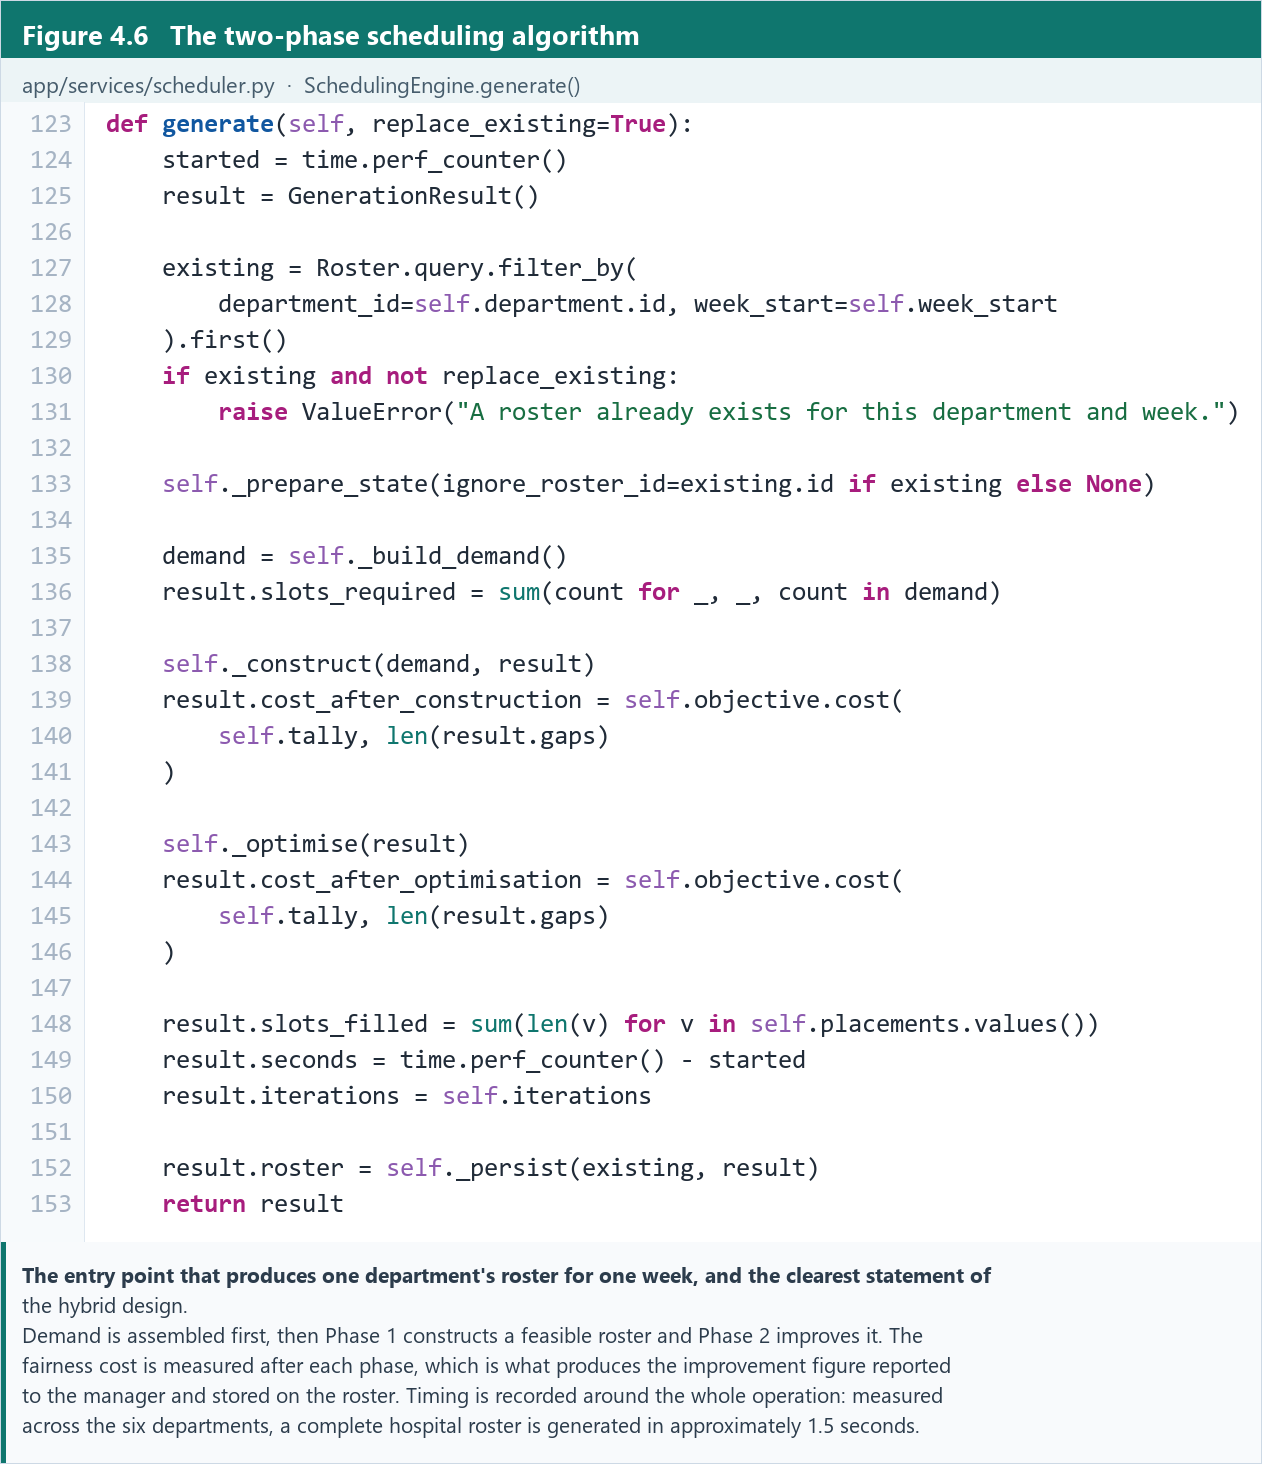
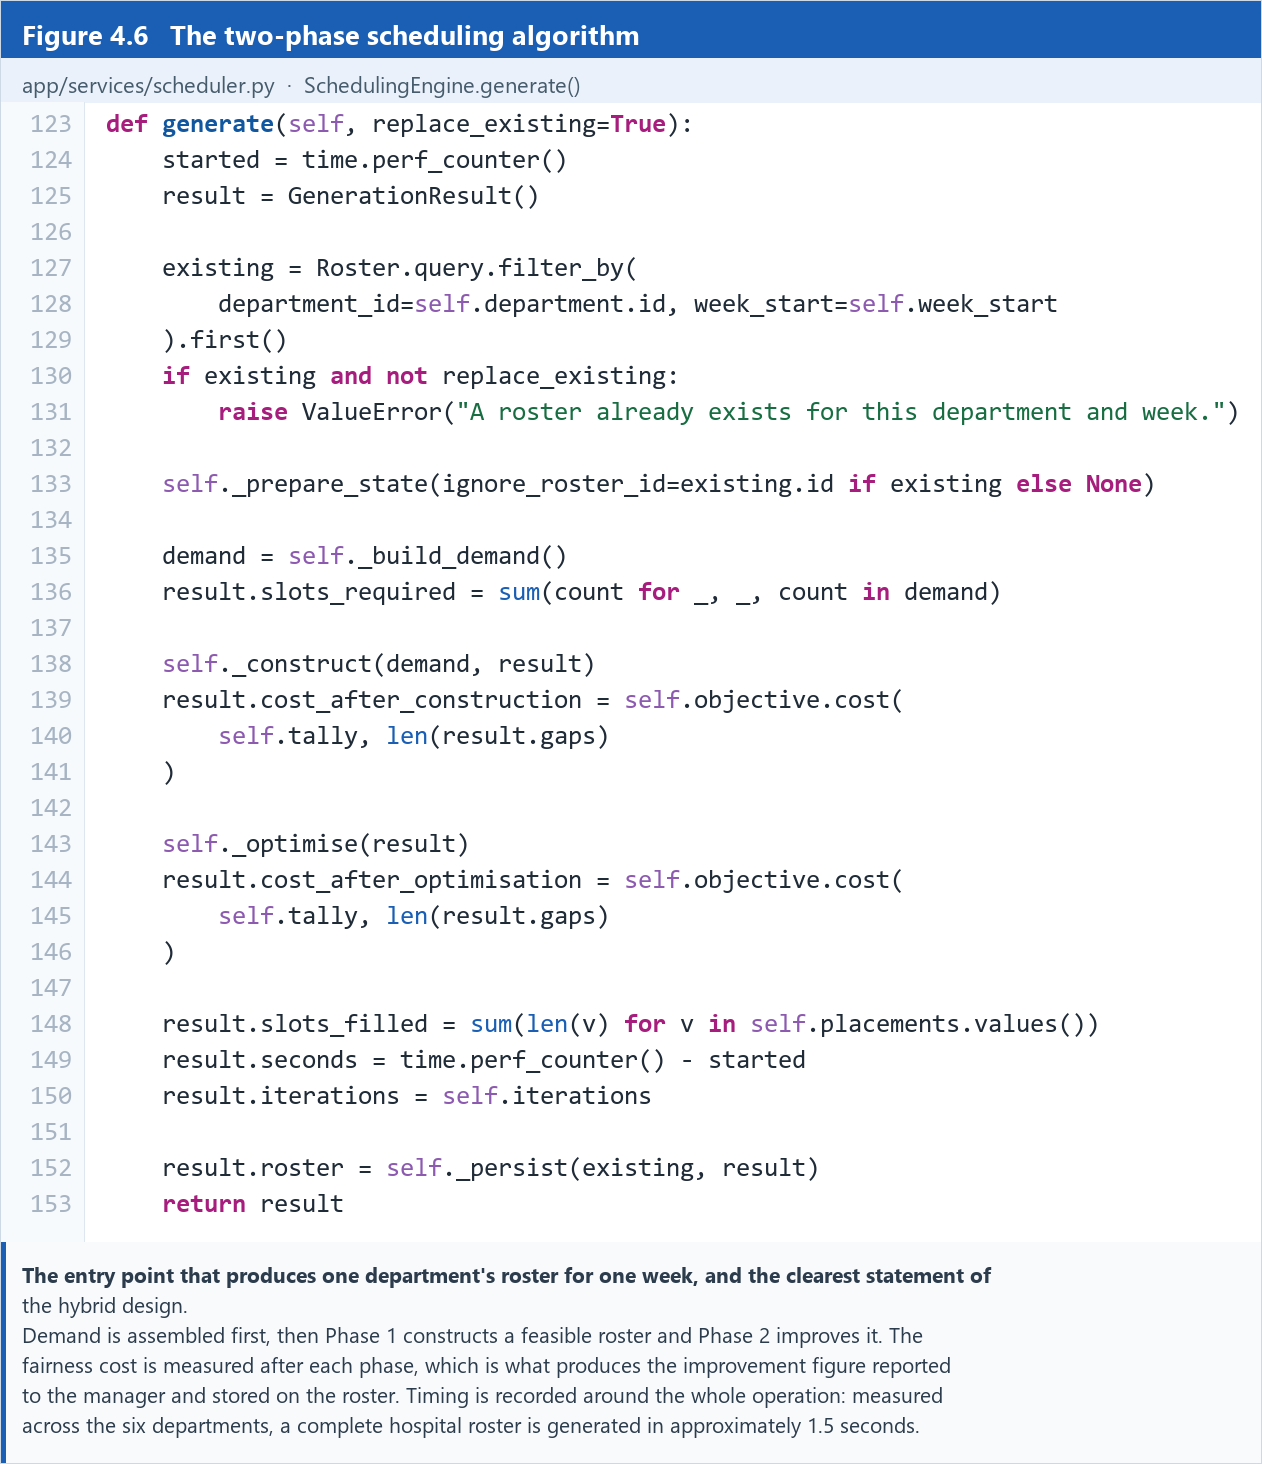
Change the brand colour from teal to blue
Applied across every surface so nothing is left on the old palette: the
stylesheet, the chart palette in app.js, the sign-in page artwork, the PDF
report accent and the thesis code figures. 27 substitutions; no teal hex or
rgb triple remains outside the vendored Bootstrap build.

  brand        #0f766e -> #1a5fb4
  hover/active #0b5a54 -> #17529c, #094a45 -> #134487
  soft tint    #e6f4f2 -> #e7f0fb
  sidebar      #0d2430 -> #111e30, with the teal-tinted greys around it
               moved onto a blue-grey ramp

The semantic blue used for on-leave, night-shift and completed states moved
to indigo (#1d4ed8 -> #5145cd). Left alone it would have put two blues on the
same screen, and a status chip sharing the brand colour reads as an action
rather than a state.

Contrast checked rather than assumed: brand text on white and white on the
brand button are both 6.29:1, indigo on its soft tint 5.79:1, brand on its
soft tint 5.47:1. All pass WCAG AA for normal text.

Also fixes a latent bug in tests/verify_workflows.py. The attendance section
selected a staff member who was rostered now and not signed in, but seed.py
signs in everyone whose shift is running, so that set is empty right after a
seed. The hardcoded fallback was already signed in and stepped out, the
application correctly refused the double sign-in, and the test then reported
a failure against its own pre-existing record. It now selects on the only
precondition the section needs, and passes across repeated fresh seeds.

diff --git a/app/static/css/theme.css b/app/static/css/theme.css
@@ -15,20 +15,20 @@
 
 /* ---------- 1. Palette ---------------------------------------------- */
 :root {
-  --brand: #0f766e;
-  --brand-dark: #0b5a54;
-  --brand-darker: #094a45;
-  --brand-soft: #e6f4f2;
-  --sidebar-bg: #0d2430;
-  --sidebar-ink: #c4d5e0;
-  --sidebar-muted: #7f9bab;
+  --brand: #1a5fb4;
+  --brand-dark: #17529c;
+  --brand-darker: #134487;
+  --brand-soft: #e7f0fb;
+  --sidebar-bg: #111e30;
+  --sidebar-ink: #c6d5e8;
+  --sidebar-muted: #8497b3;
 
   /* Bootstrap global tokens */
-  --bs-primary: #0f766e;
-  --bs-primary-rgb: 15, 118, 110;
-  --bs-link-color: #0f766e;
-  --bs-link-color-rgb: 15, 118, 110;
-  --bs-link-hover-color: #0b5a54;
+  --bs-primary: #1a5fb4;
+  --bs-primary-rgb: 26, 95, 180;
+  --bs-link-color: #1a5fb4;
+  --bs-link-color-rgb: 26, 95, 180;
+  --bs-link-hover-color: #17529c;
   --bs-body-color: #16202b;
   --bs-body-bg: #f4f7fb;
   --bs-border-color: #dde5ee;
@@ -69,8 +69,8 @@
 .form-control:focus,
 .form-select:focus,
 .form-check-input:focus {
-  border-color: #5eada6;
-  box-shadow: 0 0 0 0.2rem rgba(15, 118, 110, 0.16);
+  border-color: #7aa8dd;
+  box-shadow: 0 0 0 0.2rem rgba(26, 95, 180, 0.16);
 }
 
 .form-check-input:checked {
@@ -108,7 +108,7 @@
 .badge-soft.green { background: #e5f5ea; color: #157f3d; }
 .badge-soft.amber { background: #fdf1de; color: #a86107; }
 .badge-soft.red   { background: #fdeceb; color: #b3261e; }
-.badge-soft.blue  { background: #e8eefc; color: #1d4ed8; }
+.badge-soft.blue  { background: #ecebfb; color: #5145cd; }
 .badge-soft.brand { background: var(--brand-soft); color: var(--brand-dark); }
 .badge-soft.grey  { background: #eef2f6; color: #64748b; }
 
@@ -160,7 +160,7 @@ body {
   font-size: 0.63rem;
   letter-spacing: 0.09em;
   text-transform: uppercase;
-  color: #6c8797;
+  color: #77899f;
   padding: 0.85rem 0.6rem 0.35rem;
   font-weight: 600;
 }
@@ -261,7 +261,7 @@ body {
 .stat-tile.is-green .stat-tile__value { color: #157f3d; }
 .stat-tile.is-amber .stat-tile__value { color: #a86107; }
 .stat-tile.is-red   .stat-tile__value { color: #b3261e; }
-.stat-tile.is-blue  .stat-tile__value { color: #1d4ed8; }
+.stat-tile.is-blue  .stat-tile__value { color: #5145cd; }
 .stat-tile.is-brand .stat-tile__value { color: var(--brand); }
 
 /* Avatar */
@@ -371,7 +371,7 @@ body {
 .presence-card.green { border-left: 3px solid #21a049; }
 .presence-card.amber { border-left: 3px solid #e08a17; }
 .presence-card.red   { border-left: 3px solid #d64545; }
-.presence-card.blue  { border-left: 3px solid #3b6fe0; }
+.presence-card.blue  { border-left: 3px solid #6355d8; }
 .presence-card.grey  { border-left: 3px solid #cbd5e1; }
 
 .status-dot {
@@ -381,7 +381,7 @@ body {
 .status-dot.green { background: #21a049; }
 .status-dot.amber { background: #e08a17; }
 .status-dot.red   { background: #d64545; }
-.status-dot.blue  { background: #3b6fe0; }
+.status-dot.blue  { background: #6355d8; }
 .status-dot.grey  { background: #98a7b8; }
 
 .live-dot {
@@ -440,14 +440,14 @@ body {
 /* Sign-in page */
 .auth-shell { min-height: 100vh; }
 .auth-aside {
-  background: linear-gradient(160deg, #0d2430 0%, #10403c 58%, #0f766e 100%);
-  color: #d5e5ea;
+  background: linear-gradient(160deg, #111e30 0%, #14345e 58%, #1a5fb4 100%);
+  color: #dbe6f5;
   padding: 3rem 3.2rem;
 }
 .auth-aside h1 { color: #fff; font-size: 1.7rem; line-height: 1.28; letter-spacing: -0.02em; }
-.auth-aside p { color: #9fbcc6; font-size: 0.88rem; line-height: 1.65; max-width: 44ch; }
-.auth-aside li { color: #bcd4dc; font-size: 0.82rem; }
-.auth-aside li strong { color: #e3f2f0; }
+.auth-aside p { color: #a8c0dd; font-size: 0.88rem; line-height: 1.65; max-width: 44ch; }
+.auth-aside li { color: #c2d5ec; font-size: 0.82rem; }
+.auth-aside li strong { color: #e6effa; }
 .auth-logo {
   width: 44px; height: 44px; border-radius: 0.7rem;
   background: var(--brand);

diff --git a/app/templates/auth/login.html b/app/templates/auth/login.html
@@ -14,24 +14,24 @@
 
       <ul class="list-unstyled mt-4 d-grid gap-3">
         <li class="d-flex gap-3">
-          <svg width="17" height="17" viewBox="0 0 24 24" fill="none" stroke="#4fd1c5" stroke-width="2.5" stroke-linecap="round" stroke-linejoin="round" class="flex-shrink-0 mt-1"><path d="m4 12.5 5 5L20 6.5"/></svg>
+          <svg width="17" height="17" viewBox="0 0 24 24" fill="none" stroke="#7db8f0" stroke-width="2.5" stroke-linecap="round" stroke-linejoin="round" class="flex-shrink-0 mt-1"><path d="m4 12.5 5 5L20 6.5"/></svg>
           <span><strong>Rosters in seconds.</strong> Hard constraints are enforced as the schedule is built, so every roster is compliant by construction.</span>
         </li>
         <li class="d-flex gap-3">
-          <svg width="17" height="17" viewBox="0 0 24 24" fill="none" stroke="#4fd1c5" stroke-width="2.5" stroke-linecap="round" stroke-linejoin="round" class="flex-shrink-0 mt-1"><path d="m4 12.5 5 5L20 6.5"/></svg>
+          <svg width="17" height="17" viewBox="0 0 24 24" fill="none" stroke="#7db8f0" stroke-width="2.5" stroke-linecap="round" stroke-linejoin="round" class="flex-shrink-0 mt-1"><path d="m4 12.5 5 5L20 6.5"/></svg>
           <span><strong>Gaps fill themselves.</strong> Approved leave releases the affected shifts and the engine assigns the fairest available colleague.</span>
         </li>
         <li class="d-flex gap-3">
-          <svg width="17" height="17" viewBox="0 0 24 24" fill="none" stroke="#4fd1c5" stroke-width="2.5" stroke-linecap="round" stroke-linejoin="round" class="flex-shrink-0 mt-1"><path d="m4 12.5 5 5L20 6.5"/></svg>
+          <svg width="17" height="17" viewBox="0 0 24 24" fill="none" stroke="#7db8f0" stroke-width="2.5" stroke-linecap="round" stroke-linejoin="round" class="flex-shrink-0 mt-1"><path d="m4 12.5 5 5L20 6.5"/></svg>
           <span><strong>Everyone is told.</strong> Publication notifies every member of the department by in-app message, email and SMS.</span>
         </li>
         <li class="d-flex gap-3">
-          <svg width="17" height="17" viewBox="0 0 24 24" fill="none" stroke="#4fd1c5" stroke-width="2.5" stroke-linecap="round" stroke-linejoin="round" class="flex-shrink-0 mt-1"><path d="m4 12.5 5 5L20 6.5"/></svg>
+          <svg width="17" height="17" viewBox="0 0 24 24" fill="none" stroke="#7db8f0" stroke-width="2.5" stroke-linecap="round" stroke-linejoin="round" class="flex-shrink-0 mt-1"><path d="m4 12.5 5 5L20 6.5"/></svg>
           <span><strong>Nothing goes unrecorded.</strong> Every publication, override and approval is written to a hash-chained audit trail.</span>
         </li>
       </ul>
 
-      <div class="mt-auto pt-5" style="color:#6f8f9c;font-size:.75rem">
+      <div class="mt-auto pt-5" style="color:#7b93b3;font-size:.75rem">
         {{ system_name }} &middot; {{ hospital_name }} &middot; {{ current_year }}
       </div>
     </aside>

diff --git a/app/static/js/app.js b/app/static/js/app.js
@@ -10,12 +10,12 @@
   var HospitalPortal = {};
 
   var PALETTE = {
-    brand: "#0f766e",
-    brandSoft: "rgba(15, 118, 110, 0.15)",
+    brand: "#1a5fb4",
+    brandSoft: "rgba(26, 95, 180, 0.15)",
     green: "#21a049",
     amber: "#e08a17",
     red: "#d64545",
-    blue: "#3b6fe0",
+    blue: "#6355d8",
     grey: "#94a3b8",
     ink: "#16202b",
     muted: "#6b7c8f",

diff --git a/tests/verify_workflows.py b/tests/verify_workflows.py
@@ -173,19 +173,29 @@ with app.app_context():
 
 print("\n4. ATTENDANCE LIFECYCLE")
 with app.app_context():
-    # Find someone rostered right now who is not already signed in.
+    # Pick anyone who is not currently signed in.
+    #
+    # Selecting on "rostered now AND not signed in" used to leave nobody to
+    # choose from: seed.py signs in everyone whose shift is running, so right
+    # after a seed that set is empty. The old fallback then picked a hardcoded
+    # staff number who was already signed in and stepped out, the application
+    # correctly refused the double sign-in, and the test reported a failure
+    # against its own pre-existing record.
+    #
+    # Being signed in is the only precondition this section actually needs, so
+    # that is all it selects on. The person may end up with an unrostered
+    # record, which exercises the same lifecycle.
     from app.services import attendance as attendance_service
     from app.utils.timeutils import now as _now
 
     moment = _now()
     picked = None
     for staff in Staff.query.filter_by(is_active=True).all():
-        assignment = attendance_service.expected_assignment(staff, moment)
-        if assignment and not attendance_service.open_record(staff, moment):
+        if not attendance_service.open_record(staff, moment):
             picked = staff.staff_no
             break
     if picked is None:
-        picked = "TH-LAB-006"
+        raise SystemExit("  every active staff member is signed in; run seed.py first")
     print(f"  (using {picked})")
 
 worker = login(picked)

diff --git a/app/services/reports.py b/app/services/reports.py
@@ -30,7 +30,7 @@ from app.utils.timeutils import format_d, format_dt, humanise_duration, now
 
 INK = colors.HexColor("#1f2933")
 MUTED = colors.HexColor("#6b7280")
-ACCENT = colors.HexColor("#0f766e")
+ACCENT = colors.HexColor("#1a5fb4")
 BAND = colors.HexColor("#f1f5f9")
 LINE = colors.HexColor("#d5dbe3")
 WARN = colors.HexColor("#b45309")
@@ -100,7 +100,7 @@ def _kpi_band(pairs, styles, columns=4):
     for label, value in pairs:
         cells.append(
             Paragraph(
-                f'<font size="13" color="#0f766e"><b>{value}</b></font><br/>'
+                f'<font size="13" color="#1a5fb4"><b>{value}</b></font><br/>'
                 f'<font size="7" color="#6b7280">{label.upper()}</font>',
                 styles["body"],
             )

diff --git a/docs/_render_code.py b/docs/_render_code.py
@@ -29,15 +29,15 @@ NUMBER      = (184, 87, 14)
 DEFNAME     = (17, 87, 160)
 DECORATOR   = (184, 87, 14)
 SELF        = (140, 90, 175)
-BUILTIN     = (15, 118, 110)
+BUILTIN     = (26, 95, 180)
 
-HEADER_BG   = (15, 118, 110)
+HEADER_BG   = (26, 95, 180)
 HEADER_FG   = (255, 255, 255)
-SUBHDR_BG   = (236, 244, 246)
+SUBHDR_BG   = (234, 241, 250)
 SUBHDR_FG   = (70, 92, 108)
 CAP_BG      = (248, 250, 252)
 CAP_FG      = (44, 60, 76)
-CAP_ACCENT  = (15, 118, 110)
+CAP_ACCENT  = (26, 95, 180)
 BORDER      = (205, 217, 229)
 
 BUILTINS = {
